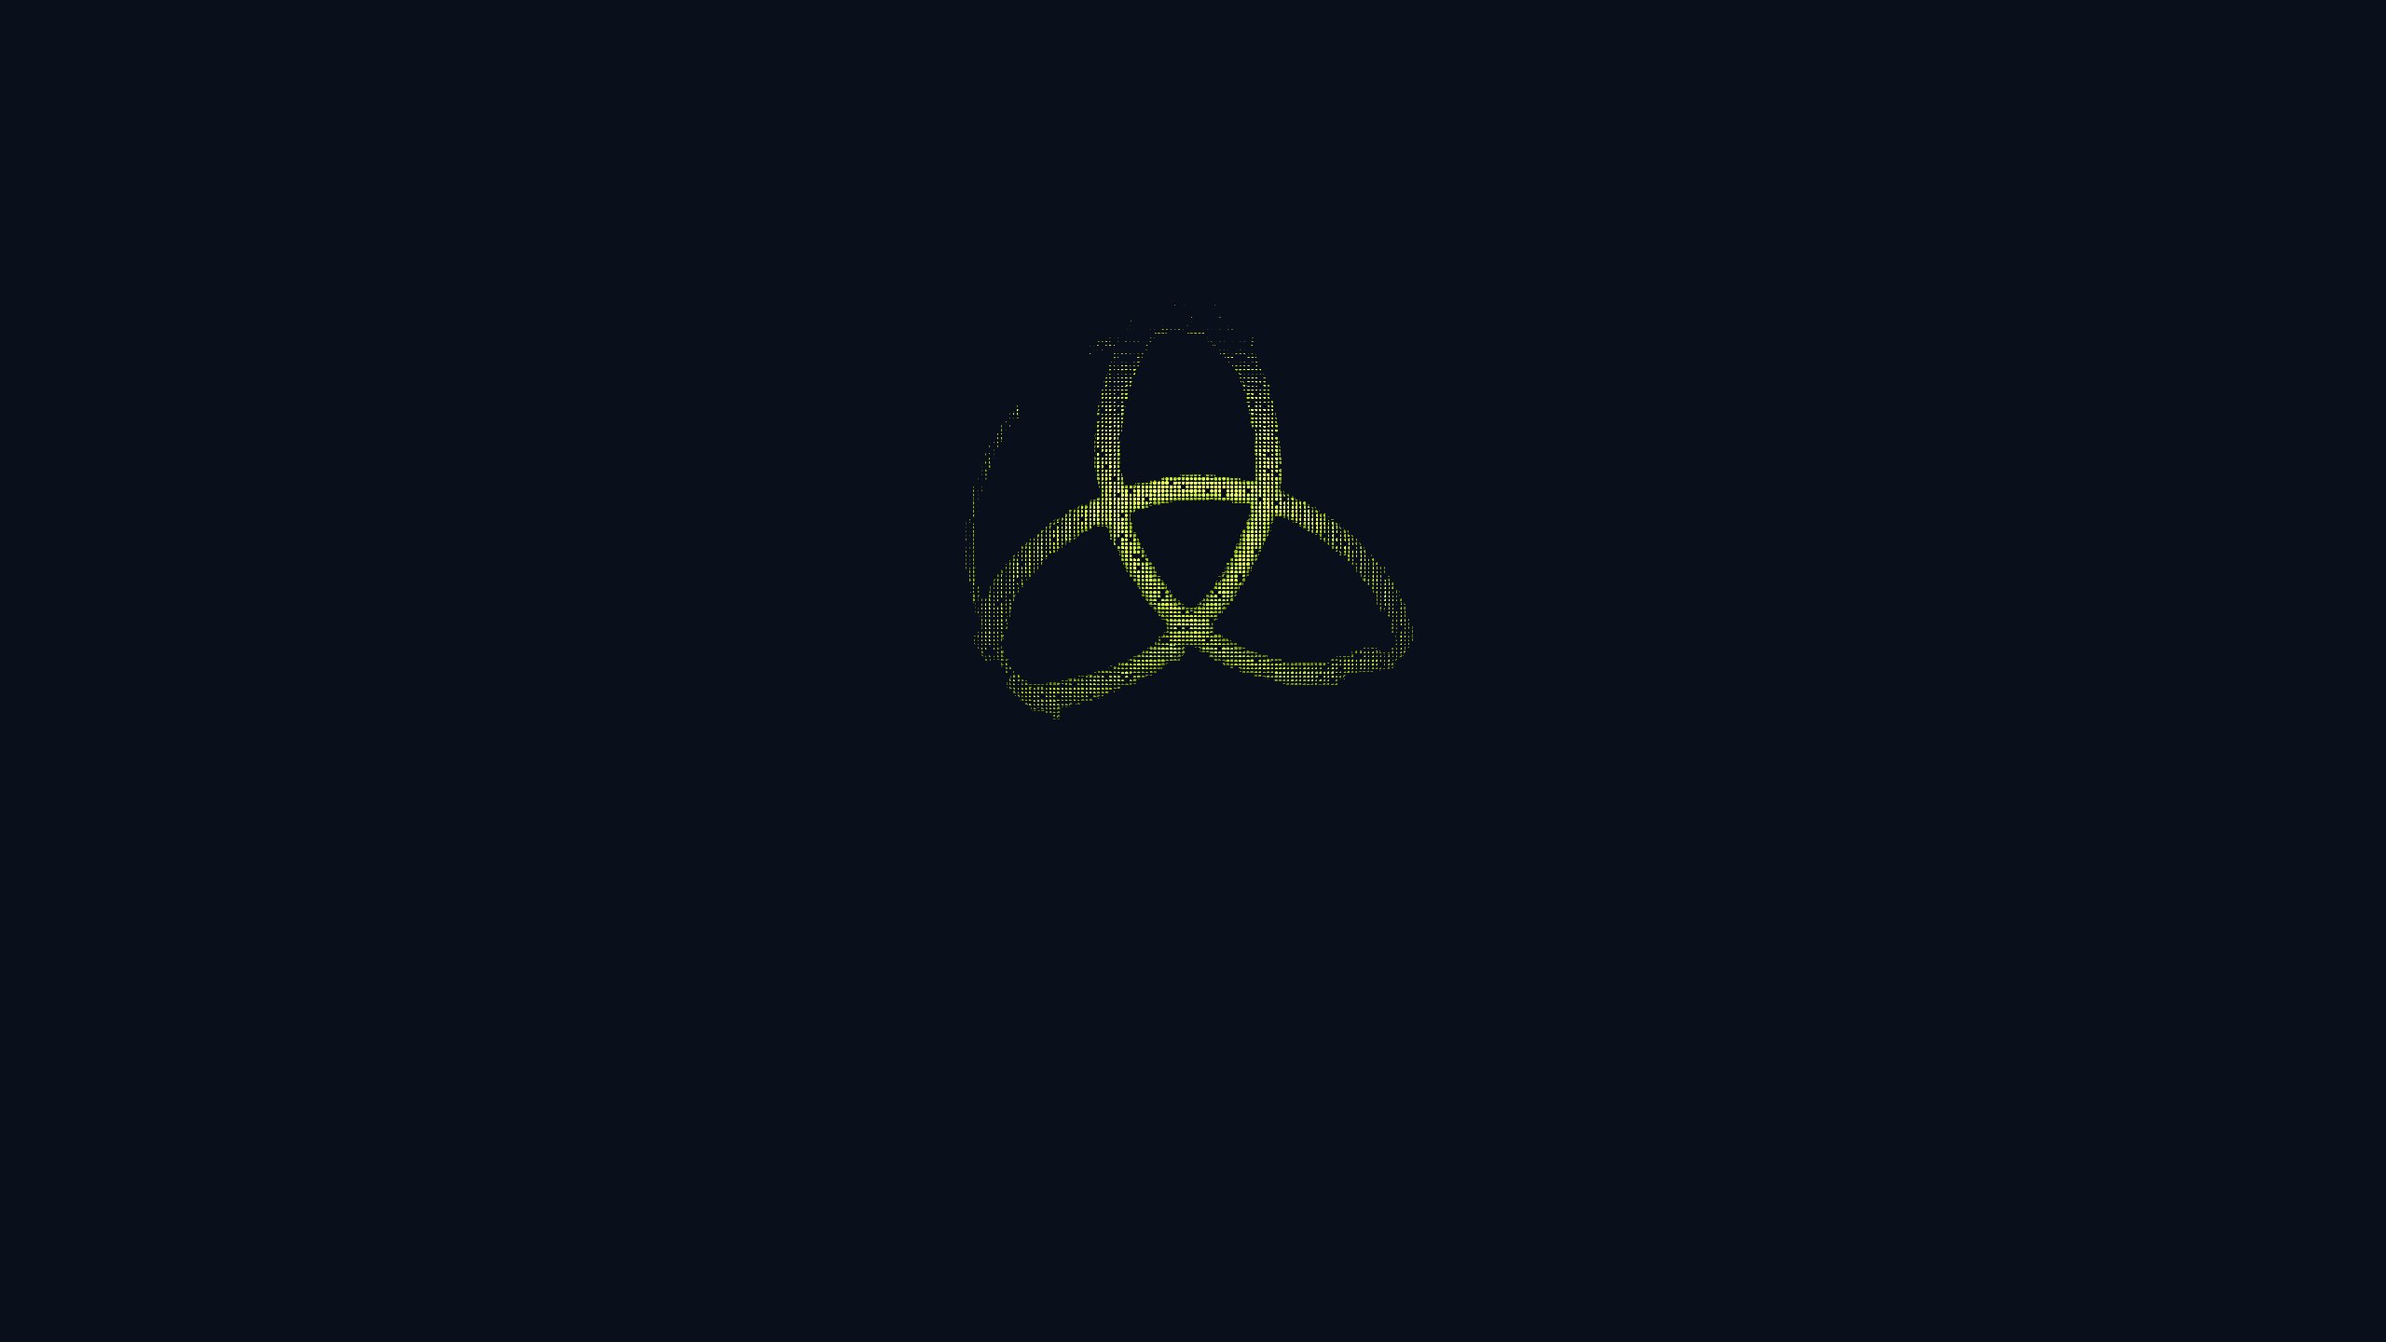
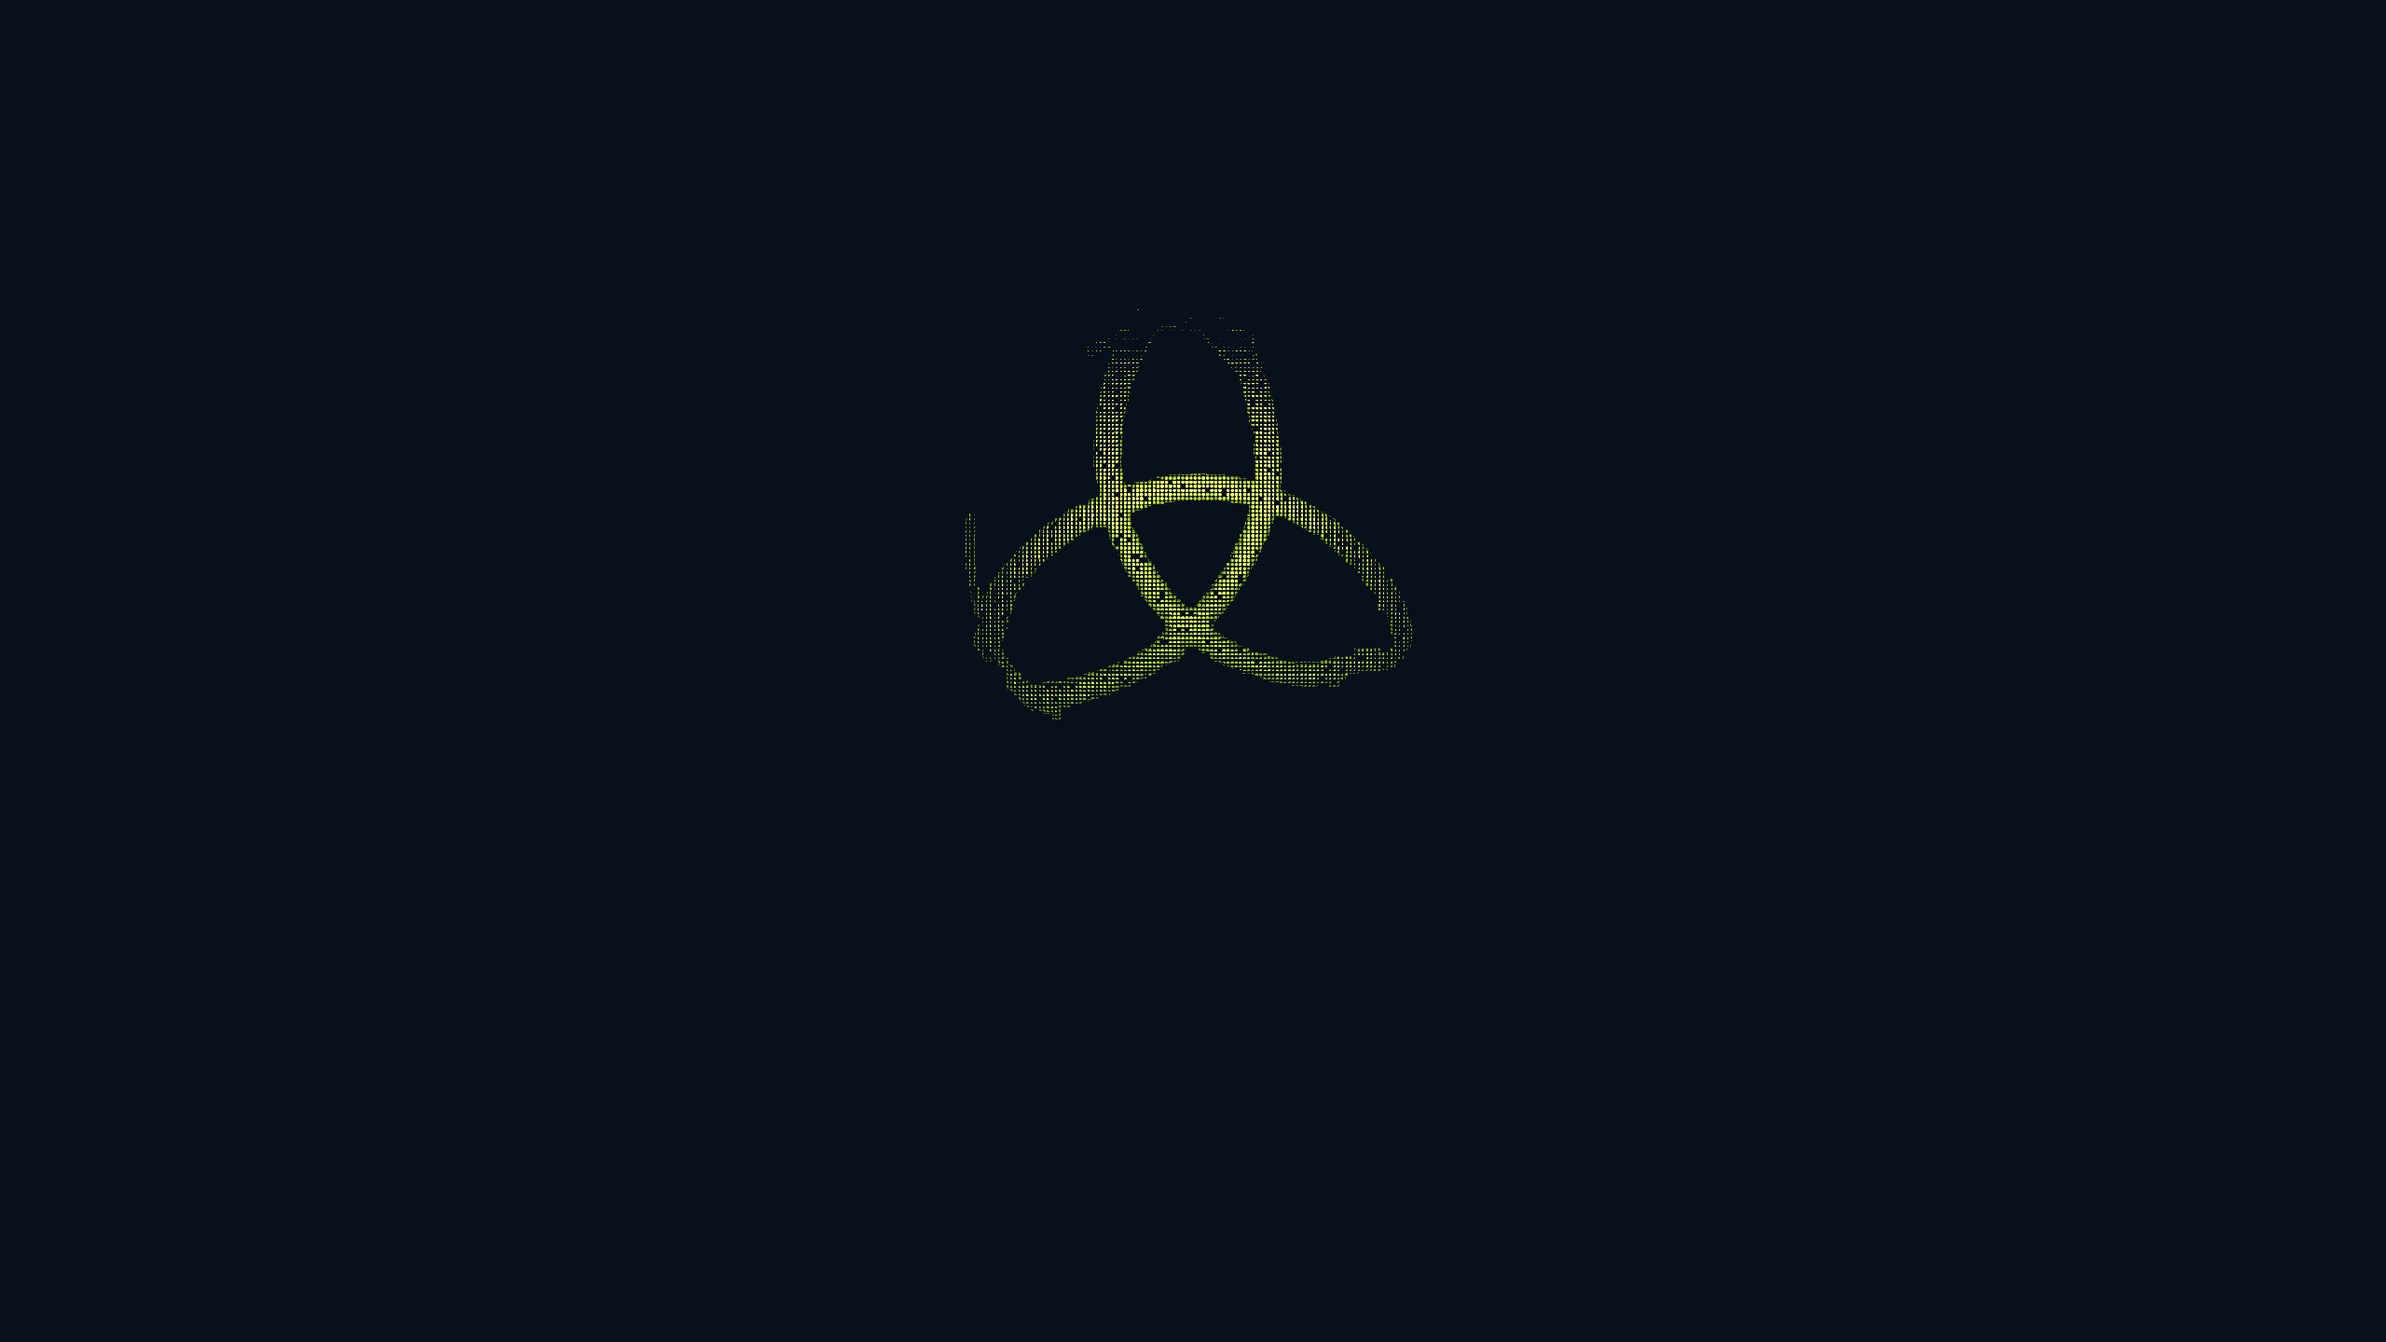
v5 W1: drop s2's leftover ring arc from the trace, sync px-per-unit
The opening left one 1,043 px ring arc detached on the left (x 29..81), which
rendered as a stray dotted crescent: a 'no rings' violation the still showed.
A 2,000 px component floor removes it (the knot is one 51,464 px blob). The
trace's strand half width moves 12.81 -> 13.00 px, so pxPerUnit moves 227.05 ->
230.48 and the Swarm 756.8 -> 768.3; a 1.5 percent mismatch here costs 0.09
band_iou. Silhouette offset 1 px shipped after a synced sweep (+0.012).

Rest: band_iou 0.7260 (raw crop), 0.7582 with s2's ring cut, 0.8159 against its
own trace, blur6 0.5481, coverage 0.0626. Ring-free ceiling 51,464/58,246 =
0.8836. Stills re-rendered for all four states.

Changed region(s): [[0.4375, 0.25, 0.5938, 0.5312], [0.4062, 0.4062, 0.4688, 0.5312]]

diff --git a/nexuslink.hud/v5/kit/Knot.qml b/nexuslink.hud/v5/kit/Knot.qml
@@ -40,11 +40,13 @@ Item {
     // ---- s2 framing -------------------------------------------------------
     // Swarm's own scale rule is u_pxPerUnit = 0.30 * size and its tube radius is
     // a fixed 0.05640288 unit, so the strand half width in px is 0.05640288 *
-    // 0.30 * size. The s2 trace's strand half width is 12.81 px, which puts the
-    // renderer at 227.05 px per unit, i.e. a 757 px Swarm inside this 540 px
+    // 0.30 * size. The s2 trace's strand half width is 13.00 px, which puts the
+    // renderer at 230.48 px per unit, i.e. a 768 px Swarm inside this 540 px
     // box. The overhang is empty: the shader writes vec4(0) outside the tube, so
     // nothing is painted outside the knot and nothing needs clipping.
-    readonly property real pxPerUnit: 227.05
+    // KEEP IN SYNC: this number is what `tools/knot-iou.py trace` prints for the
+    // shipped asset. A 1.5 percent mismatch costs ~0.09 band_iou (measured).
+    readonly property real pxPerUnit: 230.48
     readonly property real swarmSize: size * pxPerUnit / Tokens.knotDiameter / 0.30
 
     implicitWidth: size

diff --git a/tools/knot-iou.py b/tools/knot-iou.py
@@ -234,19 +234,22 @@ def opening(mask, size):
     return np.array(im) > 127
 
 
-def trace_mask(lum, thr=0.10, close=9, open_px=5, r_max=276.0, min_area=800):
+def trace_mask(lum, thr=0.10, close=9, open_px=5, r_max=276.0, min_area=2000):
     """The knot's strand band from the s2 crop, without s2's outer dot ring.
 
     s2's knot carries a faint decorative ring of dots outside the lobes (class
-    `ring` in its own cloud; its lower-left arc is bright enough to pass the
-    meter's 0.10 threshold, and closing merges parts of it into the knot). This
-    card says the Knot has no ring, so the trace runs
+    `ring` in its own cloud; parts of it are bright enough to pass the meter's
+    0.10 threshold, and closing merges some of it into the knot). This card says
+    the Knot has no ring, so the trace runs
 
         threshold -> closing (dots to strands) -> opening (drop the thin ring
-        arcs the closing attached, and any specks) -> r_max cut -> blob filter
+        arcs the closing attached) -> r_max cut -> component floor
 
-    The strands are about 24 px wide, the ring arcs under 7 px, so an opening of
-    `open_px` removes the ring and keeps the knot.
+    The strands are about 26 px wide, the ring arcs under 8 px, so an opening of
+    `open_px` removes most of the ring and keeps the knot. `min_area` then drops
+    what is left detached: one 1,043 px arc on the left survives the opening, and
+    the knot itself is a single 51k px blob, so a 2,000 px floor removes the arc
+    without touching the mark.
     """
     size = lum.shape[0]
     base = lum > thr
@@ -300,7 +303,7 @@ def trace_stats(mask):
 
 
 def bake_sdf(lum, tube_px, offset_px, out_path=None, size=SDF_SIZE,
-             thr=0.10, close=9, open_px=5, r_max=276.0, min_area=800):
+             thr=0.10, close=9, open_px=5, r_max=276.0, min_area=2000):
     """Bake the centre-line distance texture Swarm marches.
 
     R = (tube_px - offset_px - s_in) / px_per_unit, clipped to 0..SDF_RANGE

diff --git a/nexuslink.hud/v5/docs/knot-iou.md b/nexuslink.hud/v5/docs/knot-iou.md
@@ -9,11 +9,11 @@ Summary of the numbers (all reproduced by one script, commands at the end):
 
 | what | value |
 |---|---|
-| geometry: traced silhouette vs the s2 crop band | **0.9015** (`band_iou`, the fit) |
-| geometry: the most any ring-free render can score on this crop | **0.9015** |
-| render at rest, measured still | **0.7272** raw crop / 0.7562 with s2's ring cut / 0.7994 against its own trace |
-| render `silhouette_iou_blur6` (the C2 verifier's meter) | 0.5640 |
-| dot coverage at rest | 0.0592 against the reference's 0.1153 |
+| the shipped asset's own silhouette (level set) vs the s2 crop band | **0.8280** |
+| the most any ring-free render can score on this crop | **0.8836** |
+| render at rest, measured still | **0.7260** raw crop / 0.7582 with s2's ring cut / 0.8159 against its own trace |
+| render `silhouette_iou_blur6` (the C2 verifier's meter) | 0.5481 |
+| dot coverage at rest | 0.0626 against the reference's 0.1153 |
 
 ## Reference and crop
 
@@ -61,11 +61,15 @@ That is why this run re-traces the knot from the still, as the card says.
    attaches parts of them to the knot, so the opening drops them.
 3. A radial cut at r <= 276 px, the gap between the outermost lobe tip (260 px
    from the crop centre) and the ring beyond it.
-4. Components under 800 px (background grain) are dropped.
+4. Components under **2,000 px** are dropped. One ring arc (1,043 px, at x 29..81,
+   y 153..269) is thick enough to survive the opening and sits detached on the
+   left; the knot itself is one 51,464 px blob, so the floor removes it without
+   touching the mark. Without that floor the arc renders as a stray dotted
+   crescent, which is a "no rings" violation.
 
-The result is a 52,507 px band: bbox x 23..506, y 9..493, perimeter 4,468 px,
-strand half width **12.81 px** (median signed distance on the medial ridge; the
-2A/P estimator says 23.5 px because crossings and lobe tips are thicker than a
+The result is a 51,464 px band: bbox x 23..506, y 9..493, perimeter 4,184 px,
+strand half width **13.00 px** (median signed distance on the medial ridge; the
+2A/P estimator says 24.6 px because crossings and lobe tips are thicker than a
 strand and inflate it, so the ridge number is the strand).
 
 The bake then writes `kit/assets/swarm-knot-sdf.png` (1024x1024, R = distance to
@@ -74,62 +78,75 @@ A = 255 because Qt premultiplies image textures). Numbers that fall out of the
 trace and are hardcoded in `Knot.qml`:
 
 - Swarm's tube radius is a fixed 0.05640288 unit, so the renderer needs
-  **227.05 px per unit** for that tube to be 12.81 px wide,
-- therefore a 540 px `Knot` drives a **756.8 px** `Swarm`. The overhang is empty:
+  **230.48 px per unit** for that tube to be 13.00 px wide,
+- therefore a 540 px `Knot` drives a **768.3 px** `Swarm`. The overhang is empty:
   the shader writes `vec4(0)` outside the tube,
-- the lobe tip lands at 1.27 units, inside the shader's 1.34 unit march bound and
+- the lobe tip lands at 1.25 units, inside the shader's 1.34 unit march bound and
   inside the 1.45 unit texture.
 
-The geometry's own silhouette (the level set the shader must produce) scores
-**0.9015** against the reference band. That is the fit, and it is the first number
-in this file.
+The shipped asset's own level set (with the 1 px silhouette offset described
+below) scores **0.8280** against the reference band, and the plain traced band
+scores 0.8836. That second number is the ceiling; the first is what the shader
+can physically produce.
+
+**Keep `pxPerUnit` in sync.** A 1.5% mismatch between the bake's px-per-unit and
+`Knot.qml`'s (230.48 vs 227.05, measured by accident) costs 0.09 `band_iou`,
+because a uniform scale error of 1.5% moves every edge by 4 px.
 
 ## Why 0.90 is the ceiling, not a target
 
 s2's reference band is 58,246 px after the same closing. The triquetra trace is
-52,507 px of it. The remaining **5,739 px (9.9%)** are s2's ring: 2,597 px beyond
-the r 276 cut, and 3,142 px of thinner ring arcs inside it that the opening
-removes. The card says the Knot has **no rings**, so a spec-compliant render
-cannot draw them, and
+51,464 px of it. The remaining **6,782 px (11.6%)** are s2's ring: 2,597 px beyond
+the r 276 cut, plus ring arcs inside it that the opening and the component floor
+remove. The card says the Knot has **no rings**, so a spec-compliant render cannot
+draw them, and
 
-    52,507 / 58,246 = 0.9015
+    51,464 / 58,246 = 0.8836
 
 is the highest `band_iou` any ring-free Knot can reach against this crop, even if
 its still reproduced the traced band exactly, pixel for pixel.
 
-The render lands at 0.7272, so the rest of the gap is the renderer, not the
+The render lands at 0.7260, so the rest of the gap is the renderer, not the
 geometry. Two measured causes, both bounded by the visual law:
 
 1. **No glow means sparse dots.** s2's dots carry a soft halo, so its band reads
    58% covered at the meter's threshold. Swarm draws hard round discs at a 0.45
    pitch ratio (C2's repair: discrete points with dark gaps). At 0.45 the discs
    cover 33% of the band at 0.10, so the closed band comes out about 1.2 px
-   narrower per side than the geometry: render vs its own trace is 0.7994 at
+   narrower per side than the geometry: render vs its own trace is 0.8159 at
    rest. Raising the dot radius back toward s2's ratio reintroduces the
-   touching-square-tile defect C2 was repaired for; raising the gain (1.28 ->
-   2.2) moved `band_iou` by 0.003. Do not expect this to close.
+   touching-square-tile defect C2 was repaired for; raising the gain moved
+   `band_iou` by +0.0055 (see the sweep below). Do not expect this to close.
 2. **The lobe tips.** The band is 40 px wide at the top lobe's apex, but the
    tube's height above the plane goes to zero as the band narrows, so the dots at
    the tips are the dimmest and the first to fall under the threshold.
 
-Swept and rejected, so the next run does not redo it (all against this crop):
+## Sweeps (all with `pxPerUnit` synced to each bake)
 
-- silhouette dilation 0 to 2.5 px (dot-inset compensation): 0.7125, 0.7180
-  (0.75), 0.7164 (1.25), 0.7053 (1.75), 0.6910 (2.5). Net zero: dilating the
-  silhouette also dilates the enclosed holes and the reference has none there.
-- opening 7 / 5 / 9 px on the trace: 0.7125 / 0.7358 / 0.7099. 5 px is shipped.
-- gain 1.28 / 1.7 / 2.2: 0.6910 / 0.6941 / 0.6942 (measured at the then-current
-  2.5 px dilation bake, hence the different baseline).
+    variant                    band_iou   cut    blur6
+    shipped: open 5, off 0      0.7142    0.7467  0.5541
+    opening 7 px                0.7112    0.7436  0.5387
+    opening 9 px                0.7085    0.7409  0.5328
+    silhouette offset 1 px      0.7260    0.7582  0.5481   <- shipped
+    silhouette offset 2 px      0.7084    0.7382  0.5338
+    gain 2.2 (C2 default 1.28)  0.7197    0.7524  0.5591
+
+The 1 px silhouette offset is shipped: it is the measured compensation for the
+dot inset, and it is the only variant that gains. Larger offsets lose, because
+dilating the silhouette also dilates the enclosed holes and the reference has
+none there. Gain 2.2 would give +0.0055 but brightens every dot toward solid;
+C2's 1.28 is kept and the measurement is recorded here instead.
 
 ## What has to be decided (triage)
 
 The card's own two rules disagree on this crop. Three ways out, in cost order:
 
-- **Accept the ring-free number.** 0.9015 is the fit; 0.7272 is the render, and
-  this file explains both. Nothing else about the knot is unfinished.
+- **Accept the ring-free number.** 0.8836 is the ceiling, 0.8280 is the shipped
+  level set, 0.7260 is the render, and this file explains all three. Nothing else
+  about the knot is unfinished.
 - **Put s2's ring back.** The renderer already has the channel (G, `u_rRing`
   0.01277046 unit = 2.9 px radius; s2's ring tube is 5.5 px, so that constant
-  would roughly double). It covers the missing 5,739 px, but the same render
+  would roughly double). It covers the missing 6,782 px, but the same render
   would land near 0.80, still short of 0.90 for the dot-fill reason above, so it
   buys design fidelity, not the number.
 - **Allow a glow.** It breaks the visual law ("no glow around the knot") and
@@ -145,7 +162,7 @@ jitter of up to half a dot pitch that decays to zero, so the points stream in
 scattered over the whole mark and settle into the strand as progress reaches 1.
 With `assembling: false` the shader is handed exactly 1.0 and skips the branch:
 the rest frame is **byte-identical** to `assembling: true, assembleProgress: 1`
-(same PNG sha256, `14101ff0e25aa264`), verified in the run that produced the
+(same PNG sha256, `1fad32d5b473dfe6`), verified in the run that produced the
 stills.
 
 A spatial scatter (each dot thrown ~38 px off its cell) was tried first and
@@ -159,10 +176,10 @@ Stills (2560x1440 deck frame and the 540 crop, JPEG, all under 1 MB):
 
 | state | deck | crop | `band_iou` | lit px |
 |---|---|---|---|---|
-| rest (`assembling: false`) | `docs/knot-stills/knot-rest-deck.jpg` | `knot-rest-540.jpg` | 0.7272 | 17,271 |
-| progress 0.3 | `knot-a30-deck.jpg` | `knot-a30-540.jpg` | 0.2603 | 4,691 |
-| progress 0.6 | `knot-a60-deck.jpg` | `knot-a60-540.jpg` | 0.6199 | 10,307 |
-| progress 1.0 (`assembling: true`) | `knot-a100-deck.jpg` | `knot-a100-540.jpg` | 0.7272 | 17,271 |
+| rest (`assembling: false`) | `docs/knot-stills/knot-rest-deck.jpg` | `knot-rest-540.jpg` | 0.7260 | 18,264 |
+| progress 0.3 | `knot-a30-deck.jpg` | `knot-a30-540.jpg` | 0.2650 | 4,911 |
+| progress 0.6 | `knot-a60-deck.jpg` | `knot-a60-540.jpg` | 0.6307 | 10,736 |
+| progress 1.0 (`assembling: true`) | `knot-a100-deck.jpg` | `knot-a100-540.jpg` | 0.7260 | 18,264 |
 
 The progress numbers are low on purpose: the same meter on frames that are
 deliberately still assembling (30% and 60% of the dots present).
@@ -172,7 +189,8 @@ deliberately still assembling (30% and 60% of the dots present).
 From the worktree root, Python 3 with PIL + numpy (no other dependency):
 
     # 1. bake the trace into the shipped asset and print the fit
-    /usr/bin/python3 tools/knot-iou.py trace --out nexuslink.hud/v5/kit/assets/swarm-knot-sdf.png
+    /usr/bin/python3 tools/knot-iou.py trace --offset-px 1 \
+        --out nexuslink.hud/v5/kit/assets/swarm-knot-sdf.png
 
     # 2. render + measure one state (writes <prefix>-deck.jpg and -540.jpg/.png)
     /usr/bin/python3 tools/knot-iou.py still --rest --out /tmp/knot-rest
@@ -184,7 +202,7 @@ From the worktree root, Python 3 with PIL + numpy (no other dependency):
     # 4. the s2 cloud's own ceiling (why the trace is fitted to the still)
     /usr/bin/python3 tools/knot-iou.py ceiling --t 21.5
 
-`trace` prints the band, half width, px-per-unit, Swarm size and the geometry's
+`trace` prints the band, half width, px-per-unit, Swarm size and the level set's
 predicted IoU; `measure` prints `band_iou`, `silhouette_iou_blur6`, both
 coverages and the translation it found, and exits 1 below `--min-band`, so it can
 gate a card. The stills on this card were made with `--rest` and
